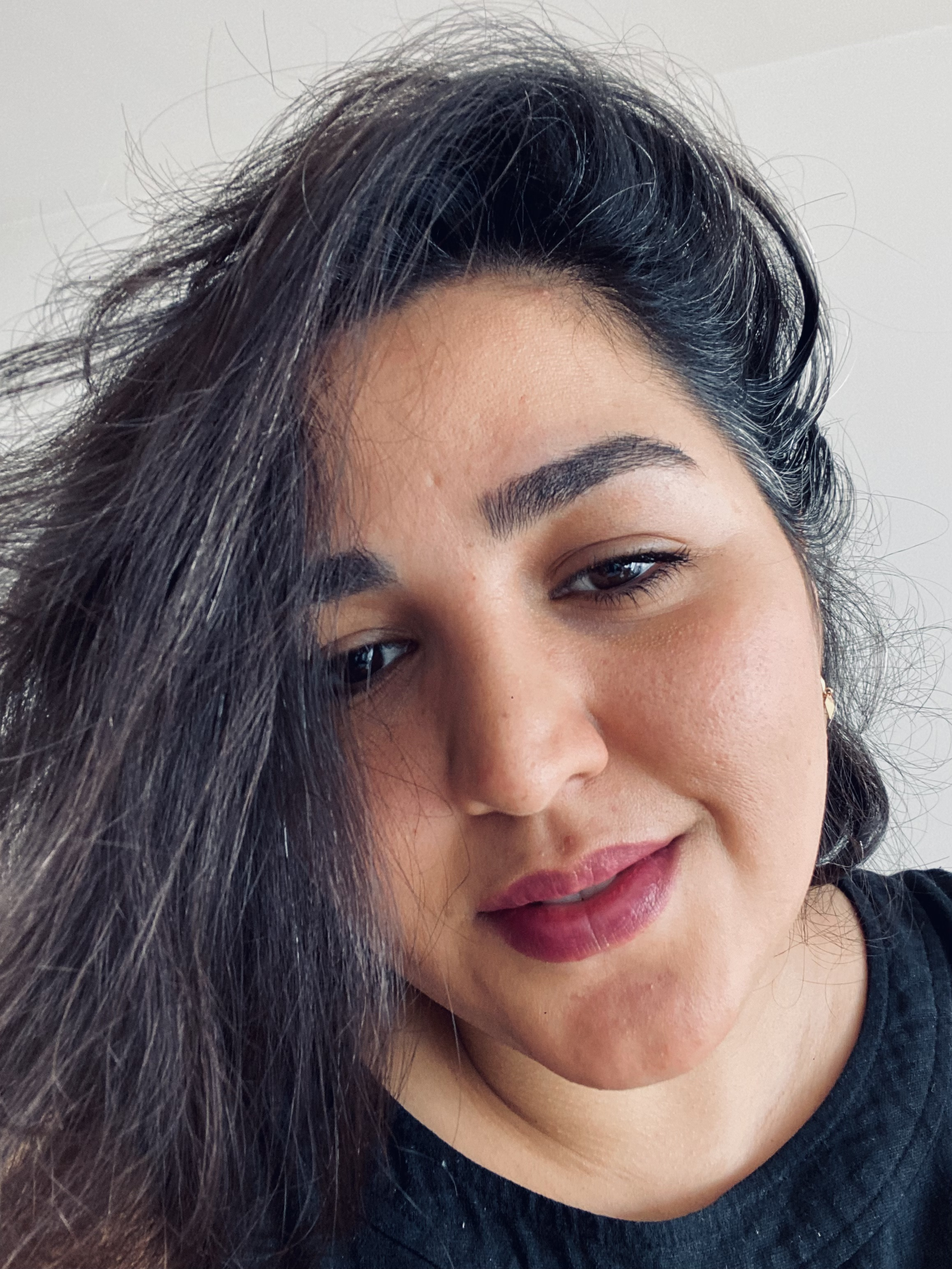
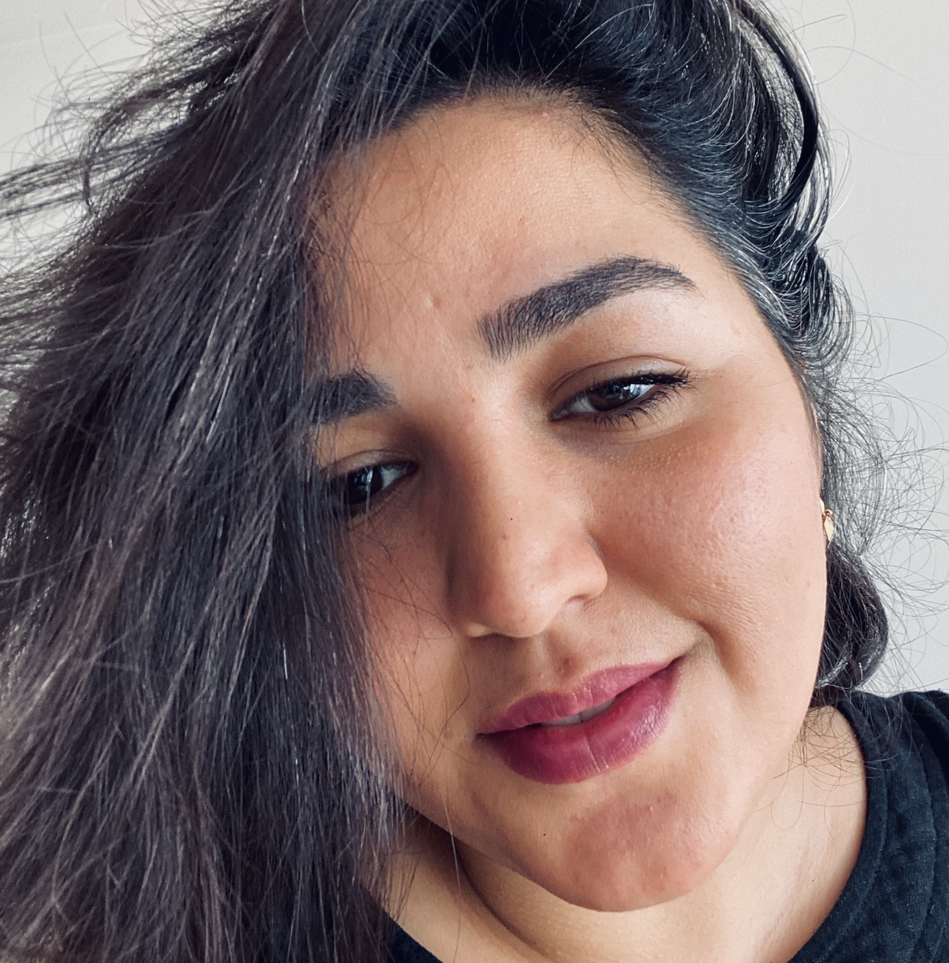
- Crop profile picture to make a better view - Add real data for main sections - Add proper styles into CSS file for making main content look good

diff --git a/index.html b/index.html
@@ -5,6 +5,7 @@
         <meta http-equiv='X-UA-Compatible' content='IE=edge'>
         <title>Kiana Masqati</title>
         <meta name='viewport' content='width=device-width, initial-scale=1'>
+        <link rel="stylesheet" href="https://cdnjs.cloudflare.com/ajax/libs/font-awesome/4.7.0/css/font-awesome.min.css">
         <link rel='stylesheet' type='text/css' media='screen' href='assets/css/style.css'>
     </head>
     <body>
@@ -24,7 +25,7 @@
                         <a href="#about" title="About Me">About Me</a>
                     </li>
                     <li>
-                        <a href="#resume" title="My Resume">My Resume</a>
+                        <a href="#experience" title="My Resume">My work experiences</a>
                     </li>
                     <li>
                         <a href="#contact" title="Contact Me">Contact Me</a>
@@ -38,37 +39,106 @@
                 <section id="about">
                     <h3>About Me</h3>
                     <div class="text">
-                        Lorem ipsum dolor sit amet, consectetur adipiscing elit. In nec tristique nisl, id finibus quam. Nam sed auctor mi. Curabitur viverra, orci nec luctus porttitor, libero risus mollis orci, vel cursus ex dolor sit amet diam. Donec pulvinar blandit purus sit amet mollis. Sed ante nulla, ultricies eu est tincidunt, consectetur vulputate purus. In pellentesque, sapien vitae posuere scelerisque, nisi dolor consectetur magna, at consectetur mauris velit iaculis metus. Proin commodo dolor non enim commodo, ac egestas risus porta. Quisque elementum nunc in tortor molestie egestas.
-                        <br/>Fusce ut lorem quis sem commodo dictum. Proin efficitur dictum laoreet. Fusce sed pharetra leo. Nulla sollicitudin luctus quam, vel ullamcorper est sagittis vitae. Vivamus bibendum metus in elit imperdiet cursus. Vestibulum porta elit quis sem facilisis, iaculis viverra lectus ultricies. Proin porttitor purus vel nulla dictum tempor. Mauris eget nunc id odio varius viverra. Nullam scelerisque diam sit amet turpis condimentum semper. Vestibulum maximus, mi vitae dapibus vestibulum, metus augue luctus dui, sit amet accumsan diam quam quis sem. Ut dictum, nulla in ultrices rutrum, urna lorem condimentum sapien, non malesuada elit arcu fringilla elit. Praesent elit orci, consectetur id pellentesque vel, fringilla ac urna. In eros nisi, tincidunt sit amet nibh sit amet, placerat porttitor quam.
-                        <br/>
-                        Nullam mattis nibh ut auctor iaculis. Sed imperdiet placerat orci, pretium lobortis est pulvinar pharetra. Duis luctus porta mauris sed feugiat. Quisque ut pretium ligula. In dapibus tempus magna, ac mollis turpis sollicitudin ut. Maecenas laoreet mauris at tristique pretium. Etiam eleifend nulla a finibus laoreet. Cras vel aliquam turpis, vitae rhoncus tellus. Vestibulum ante ipsum primis in faucibus orci luctus et ultrices posuere cubilia curae; Praesent vitae sollicitudin urna. Mauris quis aliquet magna. Aliquam sagittis, dui eu ultricies vehicula, elit ante posuere tellus, aliquet cursus lacus ex nec leo. Vestibulum efficitur tincidunt nibh eu tristique.
-                        <br/>
-                        Quisque dapibus egestas nisl rhoncus imperdiet. Sed venenatis, justo vel tempor gravida, neque libero porta urna, a faucibus urna erat sit amet leo. Ut varius eu nisi vel laoreet. Morbi consequat mi lacus, nec dictum risus pellentesque quis. Sed ut ultricies urna. Pellentesque sed tortor eget nisi euismod eleifend. Morbi quis ante facilisis enim fringilla rutrum. Ut commodo pharetra metus, et pretium odio luctus vel. Pellentesque nec egestas diam. Etiam vitae pretium lectus. Vestibulum consequat quis dui sed tincidunt. Pellentesque sit amet lorem enim.
+                        <p>Product enthusiast with 7+ years of experience in working with agile teams. Skilled in Front-End development. Reliable team player and eager to learn product skills.</p>
+                        <ul>
+                            <li>Product Management Methodologies and Frameworks: Agile, Waterfall, Scrum</li>
+                            <li>Development Skills: HTML, CSS, Javascript, jQuery, Vue.js, Git, SCSS, Stylus, Mustache, Pug, WordPress</li>
+                        </ul>
                     </div>
                 </section>
 
-                <section id="resume">
-                    <h3>My Resume</h3>
-                    <div class="text">
-                        Lorem ipsum dolor sit amet, consectetur adipiscing elit. In nec tristique nisl, id finibus quam. Nam sed auctor mi. Curabitur viverra, orci nec luctus porttitor, libero risus mollis orci, vel cursus ex dolor sit amet diam. Donec pulvinar blandit purus sit amet mollis. Sed ante nulla, ultricies eu est tincidunt, consectetur vulputate purus. In pellentesque, sapien vitae posuere scelerisque, nisi dolor consectetur magna, at consectetur mauris velit iaculis metus. Proin commodo dolor non enim commodo, ac egestas risus porta. Quisque elementum nunc in tortor molestie egestas.
-                        <br/>Fusce ut lorem quis sem commodo dictum. Proin efficitur dictum laoreet. Fusce sed pharetra leo. Nulla sollicitudin luctus quam, vel ullamcorper est sagittis vitae. Vivamus bibendum metus in elit imperdiet cursus. Vestibulum porta elit quis sem facilisis, iaculis viverra lectus ultricies. Proin porttitor purus vel nulla dictum tempor. Mauris eget nunc id odio varius viverra. Nullam scelerisque diam sit amet turpis condimentum semper. Vestibulum maximus, mi vitae dapibus vestibulum, metus augue luctus dui, sit amet accumsan diam quam quis sem. Ut dictum, nulla in ultrices rutrum, urna lorem condimentum sapien, non malesuada elit arcu fringilla elit. Praesent elit orci, consectetur id pellentesque vel, fringilla ac urna. In eros nisi, tincidunt sit amet nibh sit amet, placerat porttitor quam.
-                        <br/>
-                        Nullam mattis nibh ut auctor iaculis. Sed imperdiet placerat orci, pretium lobortis est pulvinar pharetra. Duis luctus porta mauris sed feugiat. Quisque ut pretium ligula. In dapibus tempus magna, ac mollis turpis sollicitudin ut. Maecenas laoreet mauris at tristique pretium. Etiam eleifend nulla a finibus laoreet. Cras vel aliquam turpis, vitae rhoncus tellus. Vestibulum ante ipsum primis in faucibus orci luctus et ultrices posuere cubilia curae; Praesent vitae sollicitudin urna. Mauris quis aliquet magna. Aliquam sagittis, dui eu ultricies vehicula, elit ante posuere tellus, aliquet cursus lacus ex nec leo. Vestibulum efficitur tincidunt nibh eu tristique.
-                        <br/>
-                        Quisque dapibus egestas nisl rhoncus imperdiet. Sed venenatis, justo vel tempor gravida, neque libero porta urna, a faucibus urna erat sit amet leo. Ut varius eu nisi vel laoreet. Morbi consequat mi lacus, nec dictum risus pellentesque quis. Sed ut ultricies urna. Pellentesque sed tortor eget nisi euismod eleifend. Morbi quis ante facilisis enim fringilla rutrum. Ut commodo pharetra metus, et pretium odio luctus vel. Pellentesque nec egestas diam. Etiam vitae pretium lectus. Vestibulum consequat quis dui sed tincidunt. Pellentesque sit amet lorem enim.
+                <section id="experience">
+                    <h3>work experiences</h3>
+                    <div class="career">
+                        <div id="date">
+                            Jul 2020 -<br>Nov 2021
+                        </div>
+                        <div id="title">
+                            <a href="https://realtybloc.ca/" title="RealtyBloc" target="_blank" class="company">RealtyBloc</a>
+                            <span class="location">Vancouver, Canada</span>
+                        </div>
+                        <div id="description" class="text">
+                            <p>RealtyBloc is a marketing and web design company dedicated entirely to Real Estate.</p>
+                            <ul>
+                                <li>Planned scrum sprints for determining release dates.</li>
+                                <li>Prioritised product requirements and set realistic expectations regarding development resources and timeline.</li>
+                                <li>Took requirements from frequently requests of the customer care team and implemented solutions by passing them to the development team.</li>
+                            </ul>
+                        </div>
+                    </div>
+                    <div class="career">
+                        <div id="date">
+                            Feb 2018 -<br>Jul 2020
+                        </div>
+                        <div id="title">
+                            <span class="company">Frelancer</span>
+                            <span class="location">Remote</span>
+                        </div>
+                        <div id="description" class="text">
+                            <p>For a couple of months I decided to work in a flexible environment to concentrate on level up my development skills and learning English.</p>
+                            <ul>
+                                <li>Communicated with clients and realized requirements.</li>
+                                <li>Created wireframes and designed templates.</li>
+                                <li>Optimized client's old codes.</li>
+                                <li>Designed and developed a crowdfunding platform.</li>
+                                <li>Developed a single page app for an interactive game.</li>
+                            </ul>
+                        </div>
+                    </div>
+                    <div class="career">
+                        <div id="date">
+                            Sep 2016 -<br>Dec 2018
+                        </div>
+                        <div id="title">
+                            <a href="https://www.instagram.com/anetworkinsta/" title="Anetwork" target="_blank" class="company">Anetwork, Adro, Adad, IWMF</a>
+                            <span class="location">Tehran, Iran</span>
+                        </div>
+                        <div id="description" class="text">
+                            <p>Anetwork was one of Iran's most successful Digital Media Agencies, Which has multiple portfolios such as Adro Ad Exchange, AdAd, Iran's Web and Mobile Festival(IWMF), Site Checkup, Biding, etc.</p>
+                            <ul>
+                                <li>Developed and maintained 3 different digital advertising dashboards with custom reports and statistics for admins, publishers and advertisers.</li>
+                                <li>Built Front End reusable UI components to save more than 30% of development time.</li>
+                                <li>Wrote acceptance tests.</li>
+                                <li>Wrote documents.</li>
+                            </ul>
+                        </div>
+                    </div>
+                    <div class="career">
+                        <div id="date">
+                            Apr 2014 -<br>Sep 2016
+                        </div>
+                        <div id="title">
+                            <a href="https://persiantools.com/" title="Persian Tools" target="_blank" class="company">Persian Tools, Design</a>
+                            <span class="location">Tehran, Iran</span>
+                        </div>
+                        <div id="description" class="text">
+                            <p>Persian Tools is an old company that is well-known for its website designs and hosting services.</p>
+                            <ul>
+                                <li>Developed +15 templates compatible with customized PHP CMS to meet various clients needs.</li>
+                                <li>Developed 7 custom WordPress templates for various clients.</li>
+                                <li>Trained clients about working with host, FTP, domain, DNS settings and CMS.</li>
+                            </ul>
+                        </div>
                     </div>
                 </section>
 
                 <section id="contact">
                     <h3>Contact Me</h3>
                     <div class="text">
-                        Lorem ipsum dolor sit amet, consectetur adipiscing elit. In nec tristique nisl, id finibus quam. Nam sed auctor mi. Curabitur viverra, orci nec luctus porttitor, libero risus mollis orci, vel cursus ex dolor sit amet diam. Donec pulvinar blandit purus sit amet mollis. Sed ante nulla, ultricies eu est tincidunt, consectetur vulputate purus. In pellentesque, sapien vitae posuere scelerisque, nisi dolor consectetur magna, at consectetur mauris velit iaculis metus. Proin commodo dolor non enim commodo, ac egestas risus porta. Quisque elementum nunc in tortor molestie egestas.
-                        <br/>Fusce ut lorem quis sem commodo dictum. Proin efficitur dictum laoreet. Fusce sed pharetra leo. Nulla sollicitudin luctus quam, vel ullamcorper est sagittis vitae. Vivamus bibendum metus in elit imperdiet cursus. Vestibulum porta elit quis sem facilisis, iaculis viverra lectus ultricies. Proin porttitor purus vel nulla dictum tempor. Mauris eget nunc id odio varius viverra. Nullam scelerisque diam sit amet turpis condimentum semper. Vestibulum maximus, mi vitae dapibus vestibulum, metus augue luctus dui, sit amet accumsan diam quam quis sem. Ut dictum, nulla in ultrices rutrum, urna lorem condimentum sapien, non malesuada elit arcu fringilla elit. Praesent elit orci, consectetur id pellentesque vel, fringilla ac urna. In eros nisi, tincidunt sit amet nibh sit amet, placerat porttitor quam.
-                        <br/>
-                        Nullam mattis nibh ut auctor iaculis. Sed imperdiet placerat orci, pretium lobortis est pulvinar pharetra. Duis luctus porta mauris sed feugiat. Quisque ut pretium ligula. In dapibus tempus magna, ac mollis turpis sollicitudin ut. Maecenas laoreet mauris at tristique pretium. Etiam eleifend nulla a finibus laoreet. Cras vel aliquam turpis, vitae rhoncus tellus. Vestibulum ante ipsum primis in faucibus orci luctus et ultrices posuere cubilia curae; Praesent vitae sollicitudin urna. Mauris quis aliquet magna. Aliquam sagittis, dui eu ultricies vehicula, elit ante posuere tellus, aliquet cursus lacus ex nec leo. Vestibulum efficitur tincidunt nibh eu tristique.
-                        <br/>
-                        Quisque dapibus egestas nisl rhoncus imperdiet. Sed venenatis, justo vel tempor gravida, neque libero porta urna, a faucibus urna erat sit amet leo. Ut varius eu nisi vel laoreet. Morbi consequat mi lacus, nec dictum risus pellentesque quis. Sed ut ultricies urna. Pellentesque sed tortor eget nisi euismod eleifend. Morbi quis ante facilisis enim fringilla rutrum. Ut commodo pharetra metus, et pretium odio luctus vel. Pellentesque nec egestas diam. Etiam vitae pretium lectus. Vestibulum consequat quis dui sed tincidunt. Pellentesque sit amet lorem enim.
+                        <p>Interested in working together? Let's get in touch to chat about your project.</p>
                     </div>
+                    <ul class="contact-links">
+                        <li><strong>Email:</strong><a href="mailto:masqati.kiana[at]gmail.com" title="Email Me">masqati.kiana[at]gmail.com</a></li>
+                        <li><strong>Phone:</strong><a href="tel:07412444908" title="Call Me">07412444908</a></li>
+                    </ul>
+                    <ul class="social">
+                        <li>
+                            <a href="https://www.linkedin.com/in/kiana-masqati/" title="Linkedin" target="_blank"><i class="fa fa-linkedin"></i></a>
+                        </li>
+                        <li>
+                            <a href="https://github.com/KianaMsqt" title="Github" target="_blank"><i class="fa fa-github"></i></a>
+                        </li>
+                    </ul>
                 </section>
 
                 <footer>Made by Kiana Masqati</footer>

diff --git a/assets/css/style.css b/assets/css/style.css
@@ -1,3 +1,9 @@
+:root {
+    --black: #0c1223;
+    --white: #fefcff;
+    --colored: #a2304e; 
+}
+
 * {
     margin: 0;
     padding: 0;
@@ -5,11 +11,12 @@
     outline: none;
     font-family: Verenda, sans-serif;
     font-weight: 300;
+    scroll-behavior: smooth;
 }
 
 html, body {
-    background: #fefcff;
-    color: #363636;
+    background: var(--white);
+    color: var(--black);
     height: 100%;
 }
 
@@ -20,7 +27,7 @@ img {
 
 a {
     text-decoration: none;
-    color: #363636;
+    color: var(--black);
 }
 
 h1 {
@@ -34,6 +41,7 @@ h2 {
 h3 {
     font-size: 22px;
     font-weight: 500;
+    text-transform: capitalize;
 }
 
 .grid {
@@ -43,14 +51,15 @@ h3 {
 
 aside {
     display: grid;
-    background: #088f8f;
+    background: var(--black);
     width: 30%;
 }
 
 aside,
 aside a {
-    color: #ffffff;
+    color: var(--white);
     text-align: center;
+    text-transform: capitalize;
 }
 
 .avatar {
@@ -62,19 +71,19 @@ aside a {
     margin: 0 auto 1em;
 }
 
-ul li {
+aside ul li {
     line-height: 2;
     list-style: none;
     padding-bottom: 10px;
 }
 
-ul li a {
+aside ul li a {
     display: inline-block;
     position: relative;
 }
 
-ul li a:after {
-    background: #ffffff;
+aside ul li a:after {
+    background: var(--white);
     content: "";
     display: block;
     position: absolute;
@@ -86,7 +95,7 @@ ul li a:after {
     transition: .2s;
 }
 
-ul li a:hover:after {
+aside ul li a:hover:after {
     width: 100%;
     left: 0;
 }
@@ -97,6 +106,95 @@ main {
 
 aside, main {
     padding: 2em;
+}
+
+section {
+    padding: 6em;
+}
+
+section h3 {
+    margin-bottom: 1em;
+}
+
+.text {
+    line-height: 2em;
+}
+
+.text ul {
+    padding: 2em;
+}
+
+.contact-links li,
+.social li {
+    list-style: none;
+}
+
+.contact-links li a,
+.social li a {
+    color: var(--colored);
+}
+
+.contact-links {
+    display: block;
+    float: none;
+    clear: both;
+    margin: 1em auto;
+    min-height: 1em;
+}
+.contact-links li {
+    display: block;
+    float: left;
+    width: 50%;
+}
+
+.contact-links strong {
+    font-weight: 400;
+    padding-right: 5px;
+}
+
+.social {
+    text-align: center;
+    font-size: 26px;
+}
+
+.social li {
+    display: inline;
+    padding: 0 .5em;
+}
+
+/* This part will show an animated border around profile picture */
+@keyframes avatar {
+    0%   {
+        border-top: 1px solid var(--white);
+        border-right: 3px solid var(--white);
+        border-bottom: 6px solid var(--white);
+    }
+    25%  {
+        border-right: 1px solid var(--white);
+        border-bottom: 3px solid var(--white);
+        border-left: 6px solid var(--white);
+    }
+    50%  {
+        border-bottom: 1px solid var(--white);
+        border-left: 3px solid var(--white);
+        border-top: 6px solid var(--white);
+    }
+    75% {
+        border-left: 1px solid var(--white);
+        border-top: 3px solid var(--white);
+        border-right: 6px solid var(--white);
+    }
+    100% {
+        border-top: 1px solid var(--white);
+        border-right: 3px solid var(--white);
+        border-bottom: 6px solid var(--white);
+    }
+}
+
+.avatar {
+    animation: avatar 2s infinite;
+    transition: all;
+    box-sizing: border-box;
 }
 
 /* This part will make sidebar sticky */
@@ -113,4 +211,58 @@ body {
 
 aside, main {
     overflow: auto;
+}
+
+/* This part belongs to each work experience sections styles */
+.career {
+    display: grid;
+    grid-row: 2;
+    grid-column: 2;
+    grid-template-areas: 
+        "date title"
+        "date description";
+    margin-bottom: 2em;
+}
+
+.career #date {
+    grid-area: date;
+    width: 100px;
+    text-align: right;
+    text-transform: uppercase;
+    padding-right: 2em;
+    border-right: 2px solid #555555;
+}
+
+.career #title {
+    grid-area: title;
+    padding-left: 2em;
+}
+
+.career #title .company,
+.career #title span {
+    font-weight: 400;
+}
+
+.career #title .company {
+    color: var(--colored);
+    font-size: 20px;
+    cursor: pointer;
+}
+
+.career #title span {
+    display: block;
+    color: #555555;
+}
+
+.career #description {
+    grid-area: description;
+    padding-left: 2em;
+}
+
+.career .text ul {
+    padding-bottom: 0;
+}
+
+.career .text p {
+    padding-top: 2em;
 }
